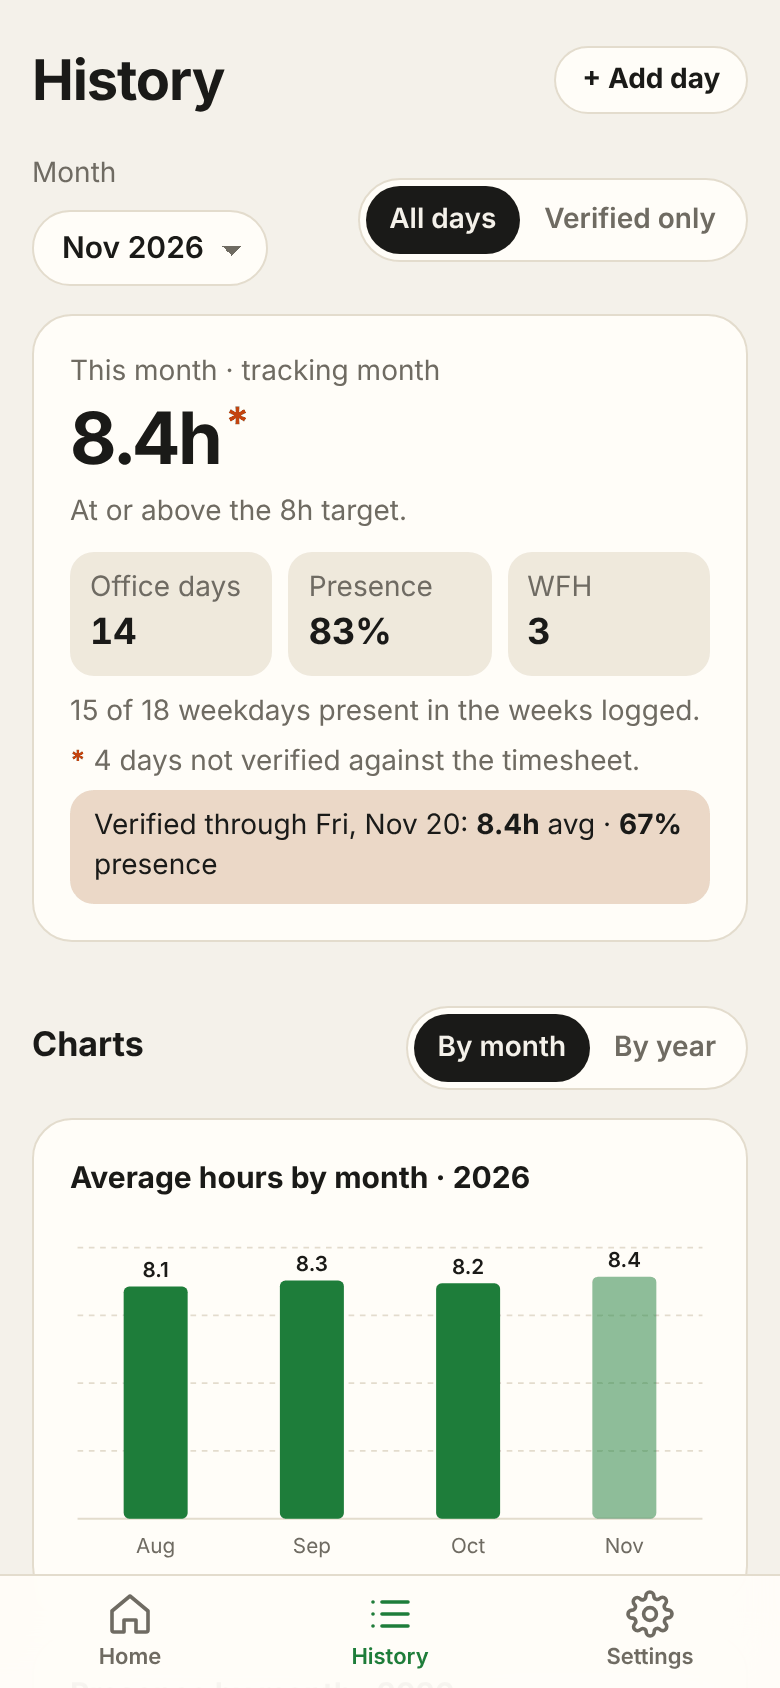
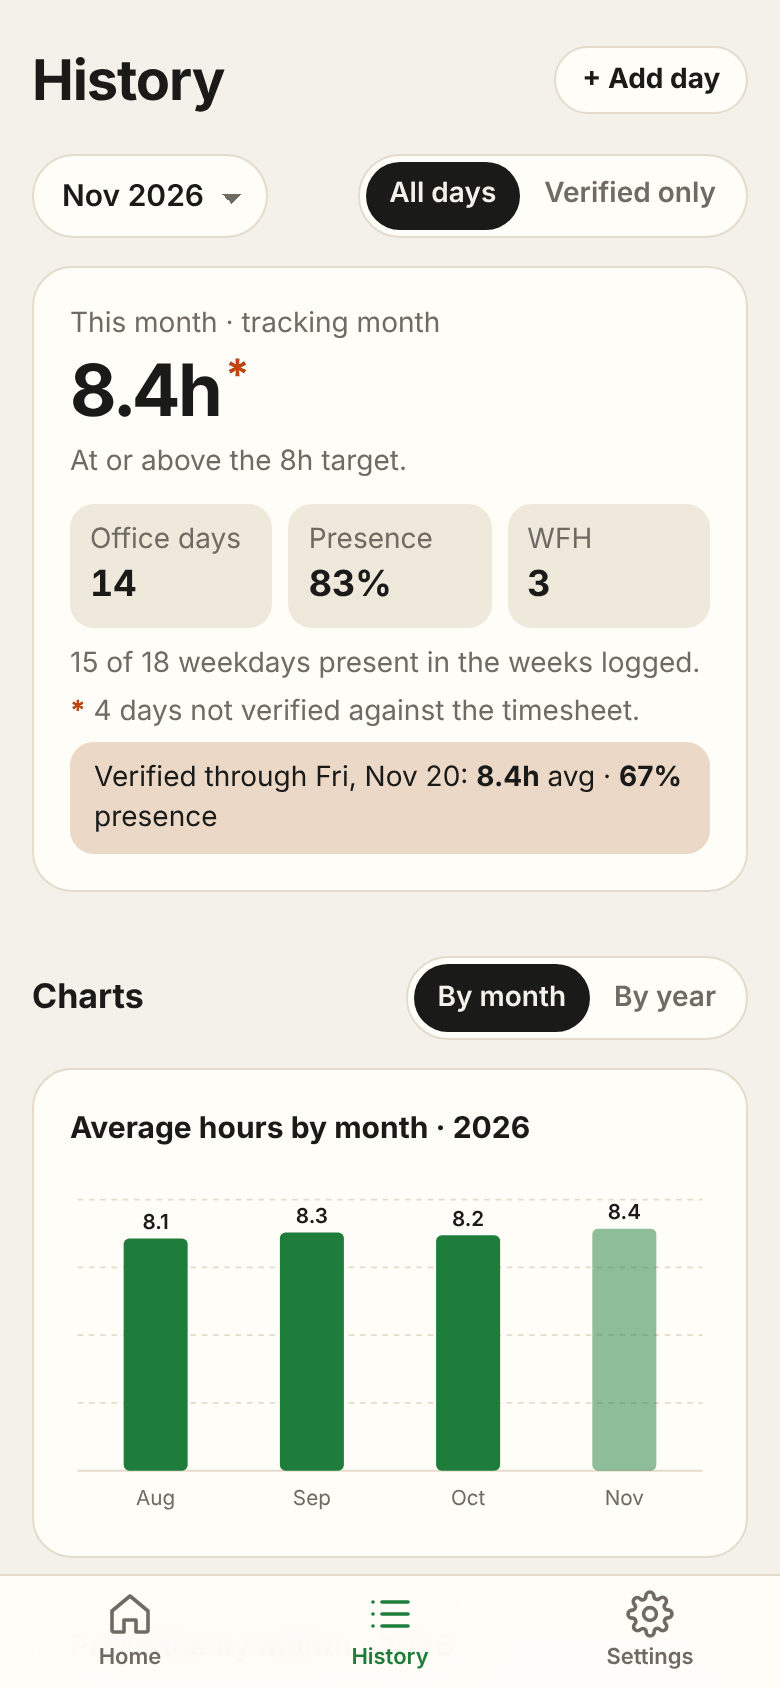
Align the month picker and All days / Verified only toggle
The visible "Month" label wrapped above the select, so the toggle was
centred against a two-line block, and at 320px it overflowed the screen.
Make the label screen-reader only, give the select the toggle's height,
and let the toggle wrap to its own row on narrow screens.

Claude-Session: https://claude.ai/code/session_01FWjHX5Lw6u7DTLn3LzXEig

diff --git a/index.html b/index.html
@@ -87,11 +87,9 @@
           <button type="button" class="btn btn--pill btn--small" data-action="open-day-form">+ Add day</button>
         </header>
 
-        <div class="cluster cluster--between">
-          <span class="cluster">
-            <label for="month-select" class="text-dim text-small">Month</label>
-            <select id="month-select" class="select"></select>
-          </span>
+        <div class="history__controls">
+          <label for="month-select" class="visually-hidden">Month</label>
+          <select id="month-select" class="select"></select>
           <div id="data-view" class="seg" role="group" aria-label="Which days to include"></div>
         </div>
         <article id="month-summary" class="card" aria-label="Month summary"></article>

diff --git a/src/styles/layout.css b/src/styles/layout.css
@@ -132,6 +132,16 @@
   }
 
   /* ---- History ---- */
+  /* Month picker + All days / Verified only: one row, wrapping on narrow
+     screens. The select's height is matched in forms.css. */
+  .history__controls {
+    display: flex;
+    flex-wrap: wrap;
+    align-items: center;
+    justify-content: space-between;
+    gap: var(--space-2);
+  }
+
   .history__meta {
     margin-top: var(--space-3);
     min-height: 2.375rem;

diff --git a/src/styles/forms.css b/src/styles/forms.css
@@ -168,6 +168,11 @@
     appearance: none;
   }
 
+  /* Same height as the segmented toggle beside it (History). */
+  .history__controls > .select {
+    min-height: 2.625rem;
+  }
+
   .textarea {
     width: 100%;
     min-height: 7.5rem;
